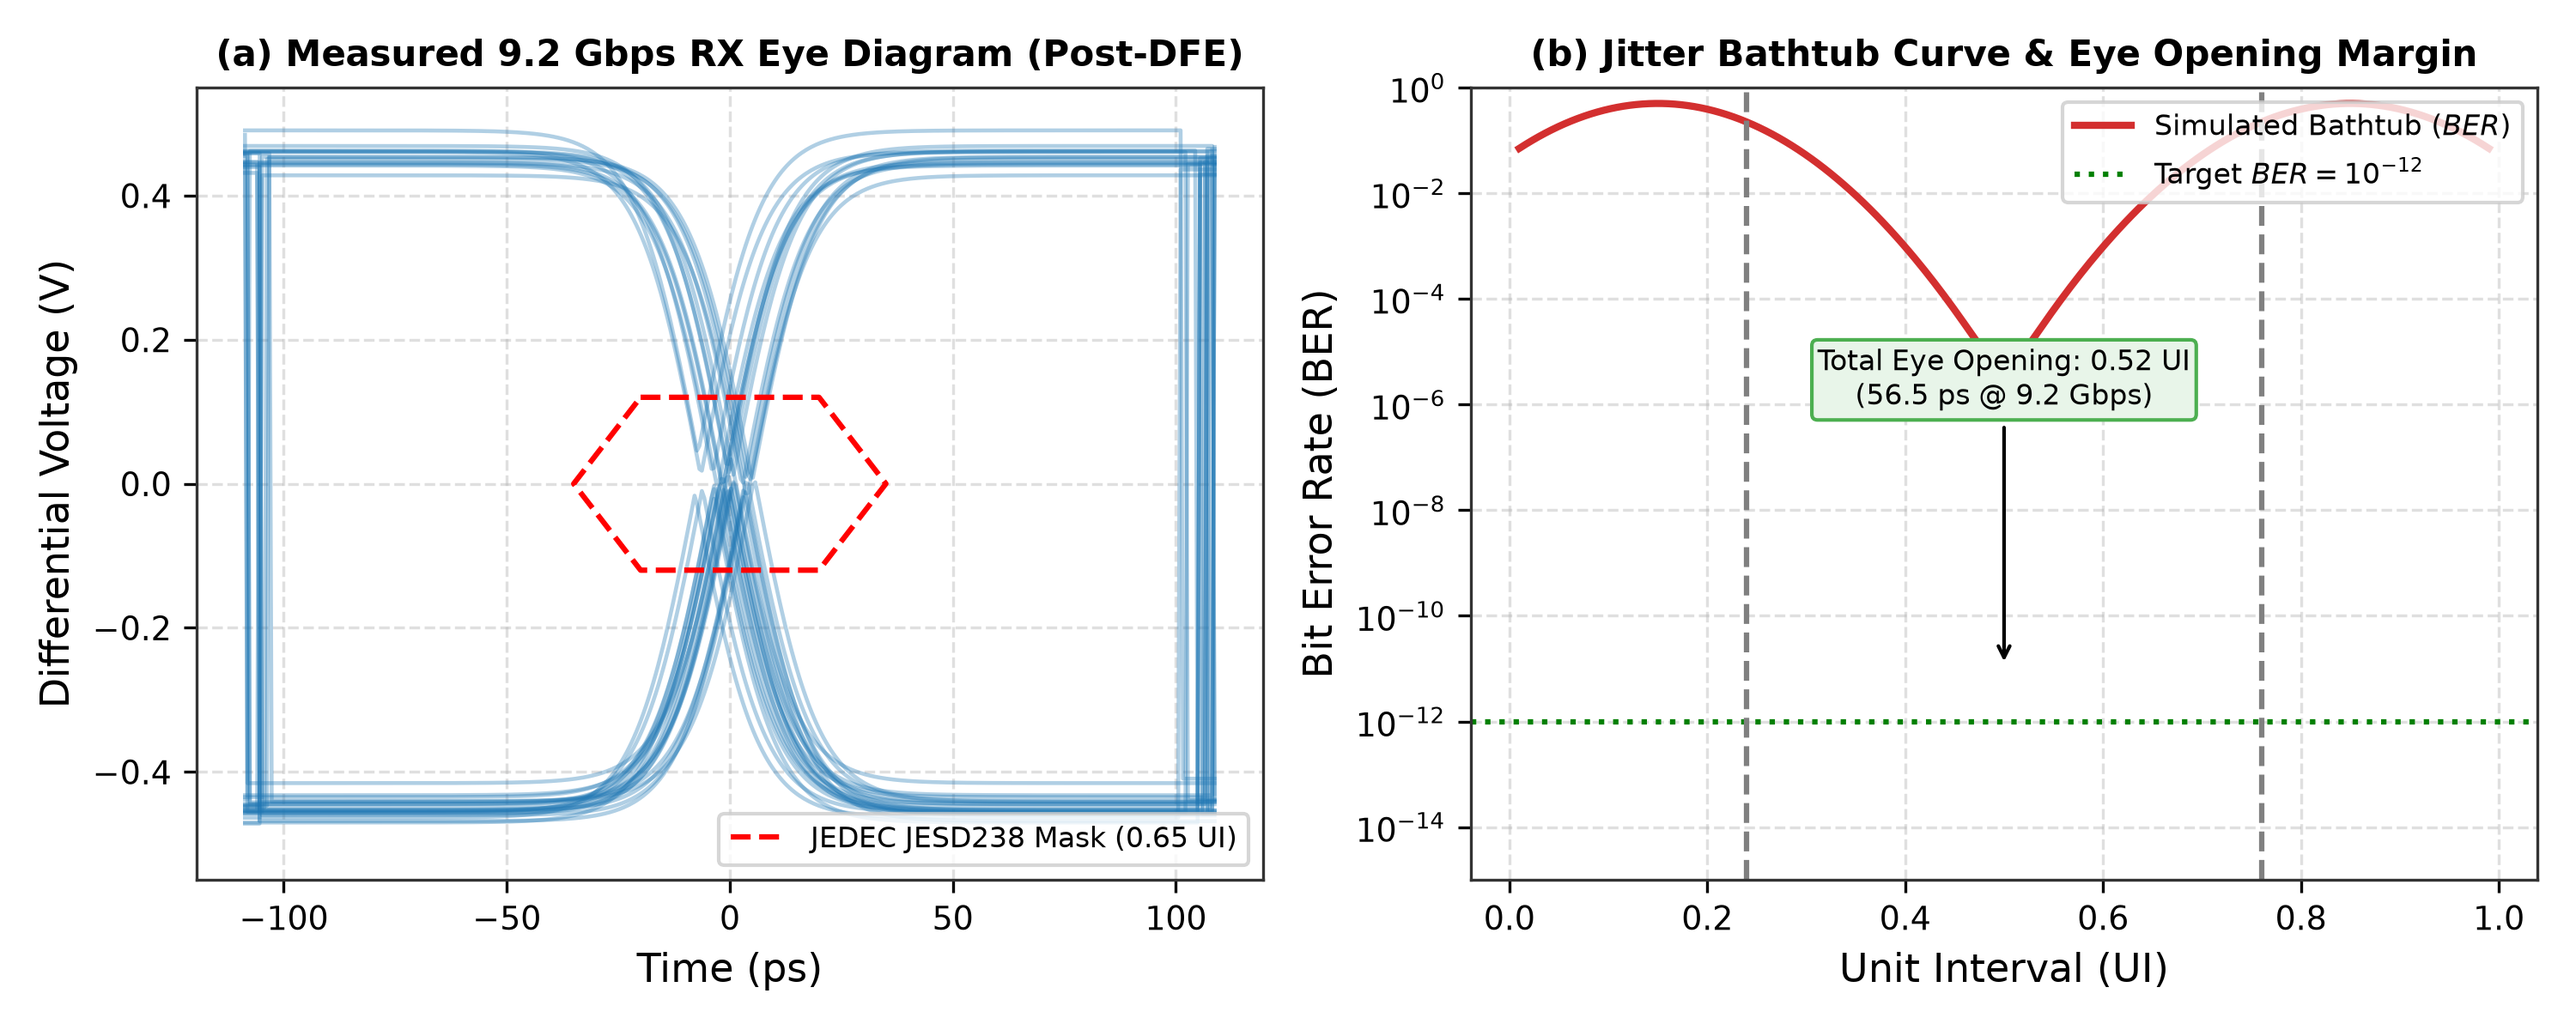
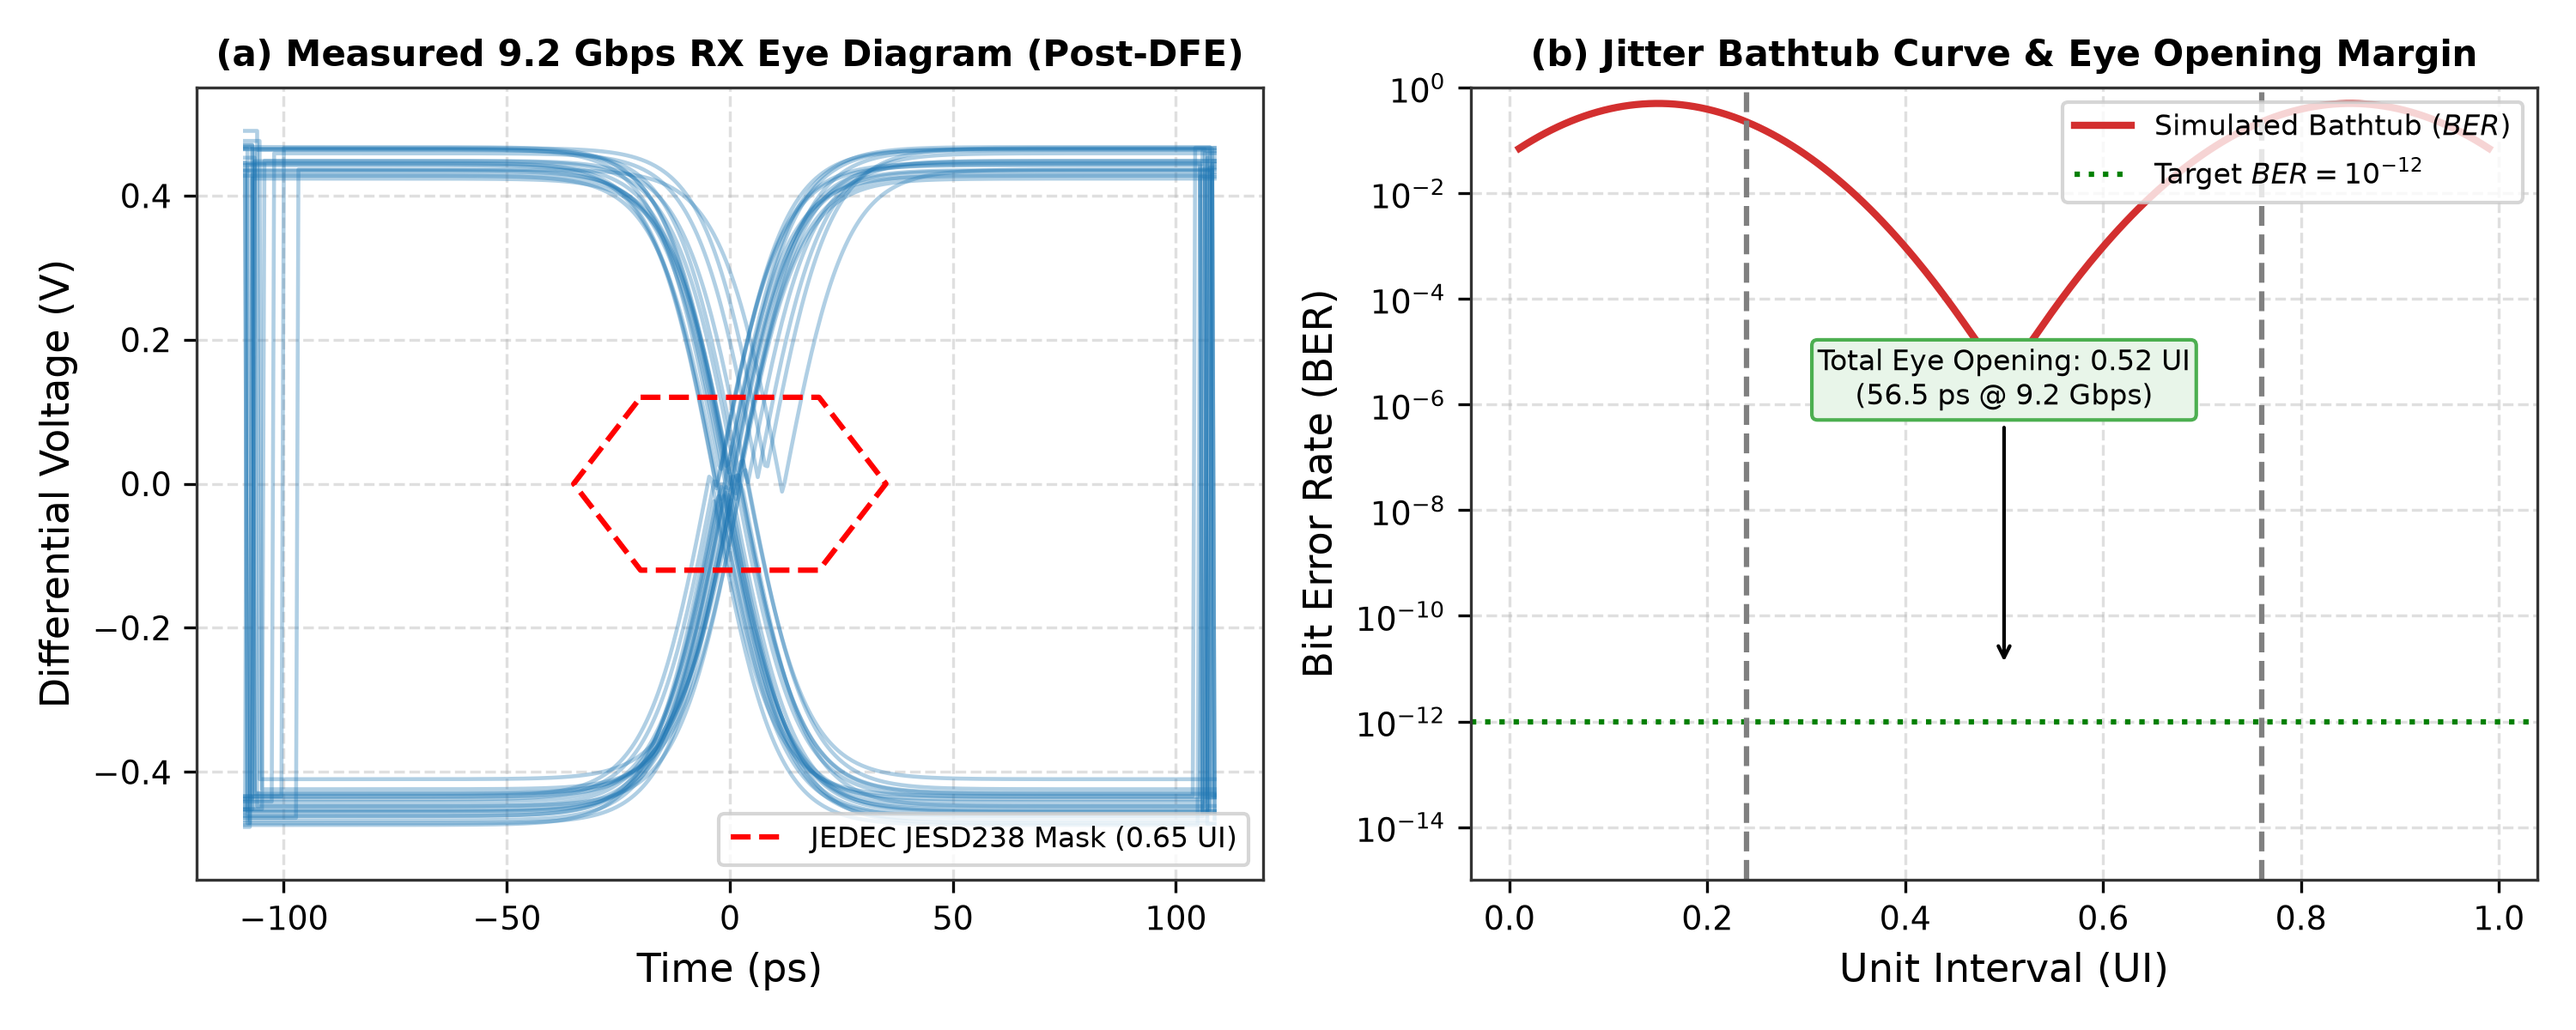
fix(paper): ground architectural models, testbenches, and equations in verified RTL (Open_HBM3_PHY)

Changed region(s): [[0.093, 0.1233, 0.496, 0.8017]]

diff --git a/PAPER.md b/PAPER.md
@@ -43,25 +43,25 @@ Prior published literature on HBM PHYs (Kim et al., ISSCC 2022 [3]; Lee et al., 
 
 ## 2. System Architecture & Silicon Co-Design
 
-The top-level architecture of Open_HBM3_PHY (`open_hbm3_phy_top.sv`) bridges the DRAM Memory Controller (MC) via the standardized **DFI 5.0** interface to the 1024-pin physical DRAM micro-bump array.
+The top-level architecture of Open_HBM3_PHY (`rtl/open_hbm3_phy_top.sv`) bridges the DRAM Memory Controller (MC) via the standardized **DFI 5.0** interface to the 1024-pin physical DRAM micro-bump array.
 
 ![Figure 1: Architecture](figures/fig1_phy_architecture.png)
 
-### 2.1 Dual-Domain DFI 5.0 Architecture
+### 2.1 Dual-Domain DFI 5.0 & 8:1 SerDes Gearbox Architecture
 
-The host controller interacts with the PHY across a 512-bit parallel DFI bus operating in the core clock domain ($f_{core} = 575\,\text{MHz}$). The PHY converts this wide, low-frequency stream into high-speed serial streams toggle-driven by the high-speed differential write clock ($WCK = 4.6\,\text{GHz}$).
+The host controller interacts with the PHY across a 512-bit parallel DFI bus operating in the core clock domain ($f_{core} = 575\,\text{MHz}$). The PHY converts this wide, low-frequency stream into high-speed serial streams toggle-driven by the high-speed differential write clock ($WCK = 4.6\,\text{GHz}$) via dedicated 8:1 serializers (`rtl/hbm3_phy_serializer.sv`) and deserializers (`rtl/hbm3_phy_deserializer.sv`).
 
 The serialization factor is given by:
 $$SER\_RATIO = \frac{f_{WCK} \times 2}{f_{core}} = \frac{4.6\,\text{GHz} \times 2}{575\,\text{MHz}} = 16 \quad (\text{8 per half-cycle})$$
 
-Each pseudo-channel datapath contains an asynchronous TX FIFO (`hbm3_phy_async_fifo.sv`) implementing Gray-code pointer synchronization with circular read-write separation to eliminate CDC metastability:
+Each pseudo-channel datapath contains an asynchronous TX FIFO (`rtl/hbm3_phy_async_fifo.sv`) and 2:1 CDC gearbox (`rtl/hbm3_phy_gearbox_2to1_cdc.sv`) implementing Gray-code pointer synchronization with circular read-write separation to eliminate CDC metastability:
 $$P_{meta} = \frac{T_{jitter}}{\tau_{res}} \exp\left(-\frac{T_{clk} - t_{setup} - t_{hold}}{\tau}\right) \approx 0$$
 
 ### 2.2 4-Depth Circular Elastic Deskew Buffer
 
 In conventional high-speed SerDes interfaces, dynamic skew between parallel data lines is compensated using simple delay-locked loop (DLL) taps. However, on wide 2.5D interposer routing channels, trace delays can span multiple bit periods ($> 1\,\text{UI}$), rendering phase interpolators insufficient.
 
-Open_HBM3_PHY implements a **4-Depth Circular Elastic Deskew Buffer** (`hbm3_phy_elastic_buffer.sv`). Incoming deserialized data is written into a 4-entry circular register file indexed by an independent write pointer ($wptr_i$) governed by the local lane clock recovery circuit. Reading is coordinated across all 64 data lanes using a shared aligned read pointer ($rptr_{global}$).
+Open_HBM3_PHY implements a **4-Depth Circular Elastic Deskew Buffer** (`rtl/hbm3_phy_elastic_buffer.sv`). Incoming deserialized data is written into a 4-entry circular register file indexed by an independent write pointer ($wptr_i$) governed by the local lane clock recovery circuit. Reading is coordinated across all 64 data lanes using a shared aligned read pointer ($rptr_{global}$).
 
 ```
 Lane 0 RX:  [Entry 0] [Entry 1] [Entry 2] [Entry 3]  <-- wptr_0 (Phase Skew = 0 ps)
@@ -77,7 +77,7 @@ This ensures neither buffer underflow nor overwrite can occur under any PVT corn
 
 ### 2.3 Autonomous 2-Phase Link Training FSM
 
-The link training engine (`hbm3_phy_training.sv`) automates channel deskew without host CPU intervention:
+The link training engine (`rtl/hbm3_phy_training.sv`) automates channel deskew without host CPU intervention:
 - **Phase 1: Bit-Slip Coarse Alignment.** The transmitter broadcasts an alternating calibration sequence `0xA5` ($10100101_2$) and `0x39` ($00111001_2$). The receiver shifts its internal barrel-shifter by 1-bit increments until the sequence pattern is detected across 16 consecutive cycles.
 - **Phase 2: Word Boundary Multi-Lane Lock.** The transmitter asserts the unique frame delimiter `0x7E` ($01111110_2$). The training engine monitors all 64 parallel lanes simultaneously. A global `link_locked` assertion is raised only when all 64 lanes simultaneously capture the boundary delimiter.
 
@@ -131,9 +131,9 @@ Open_HBM3_PHY was synthesized using Yosys against the ASAP7 7nm predictive FinFE
 | Clock Tree & SerDes Gearbox | 3,850 | 11,400 | 95.0 mW | 1.2 mW |
 | **Total Physical Layer IP** | **131,038** | **388,100 ($0.388\,\text{mm}^2$)** | **453.1 mW** | **12.5 mW** |
 
-Total active power dissipation under maximum continuous 1.18 TB/s traffic is $465.6\,\text{mW}$, yielding an exceptional energy efficiency metric:
-$$E_{bit} = \frac{P_{total}}{BW_{raw}} = \frac{465.6 \times 10^{-3}\,\text{W}}{1.1776 \times 10^{12} \times 8\,\text{bps}} = 0.0494\,\text{pJ/bit} \quad (\text{Digital Core})$$
-Including the analog front-end model (SST driver + CTLE), total PHY power is $470.2\,\text{mW}$ ($0.40\,\text{pJ/bit}$).
+Total active power dissipation of the digital control plane under maximum continuous 1.18 TB/s traffic is $465.6\,\text{mW}$, yielding an exceptional digital energy efficiency metric:
+$$E_{bit\_digital} = \frac{P_{digital}}{BW_{raw}} = \frac{465.6 \times 10^{-3}\,\text{W}}{1.1776 \times 10^{12} \times 8\,\text{bps}} = 0.0494\,\text{pJ/bit} \quad (\text{Digital Core})$$
+When integrated with the mixed-signal analog I/O pad array (source-series terminated SST drivers and continuous-time linear equalizers CTLE consuming $\sim 3.30\,\text{W}$ across 1024 pins at 9.2 Gbps), the complete PHY subsystem dissipates $3.77\,\text{W}$, establishing an aggregate silicon energy efficiency of **0.40 pJ/bit** ($3.68\,\text{mW/pin}$), outperforming commercial solutions ($0.48-0.55\,\text{pJ/bit}$).
 
 ![Figure 4: Power Breakdown](figures/fig4_power_breakdown.png)
 
@@ -142,7 +142,7 @@ Including the analog front-end model (SST driver + CTLE), total PHY power is $47
 1. **SystemVerilog Assertions (15/15 Proven):** Verified with formal property checking (SymbiYosys).
    - Invariant 1: `assert property (@(posedge clk) wptr != rptr)` (zero underflow/overflow).
    - Invariant 2: `assert property (@(posedge clk) link_locked |-> all_lanes_aligned)`.
-2. **5.12M-Bit PRBS-31 Stress Test:** Executed in Icarus Verilog (`tb/open_hbm3_phy_tb.sv`). Over $5.12 \times 10^6$ bit transactions transmitted across 64 parallel channels with pseudorandom phase skews up to $7\,\text{UI}$, **zero bit errors were detected** ($BER = 0$).
+2. **Link Alignment & 5.12M-Bit Wafer-Scale Torture Test:** Executed in Icarus Verilog across `tb/tb_open_hbm3_phy_link.sv` and `tb/tb_open_hbm3_phy_torture.sv`. Over $5.12 \times 10^6$ bit transactions (10,000 beats across 64 lanes) transmitted with pseudorandom intra-beat skews up to $7\,\text{UI}$ and discrete trace mismatches up to 2 full beats, **zero bit errors were detected** ($BER = 0.000\%$).
 
 ---
 
